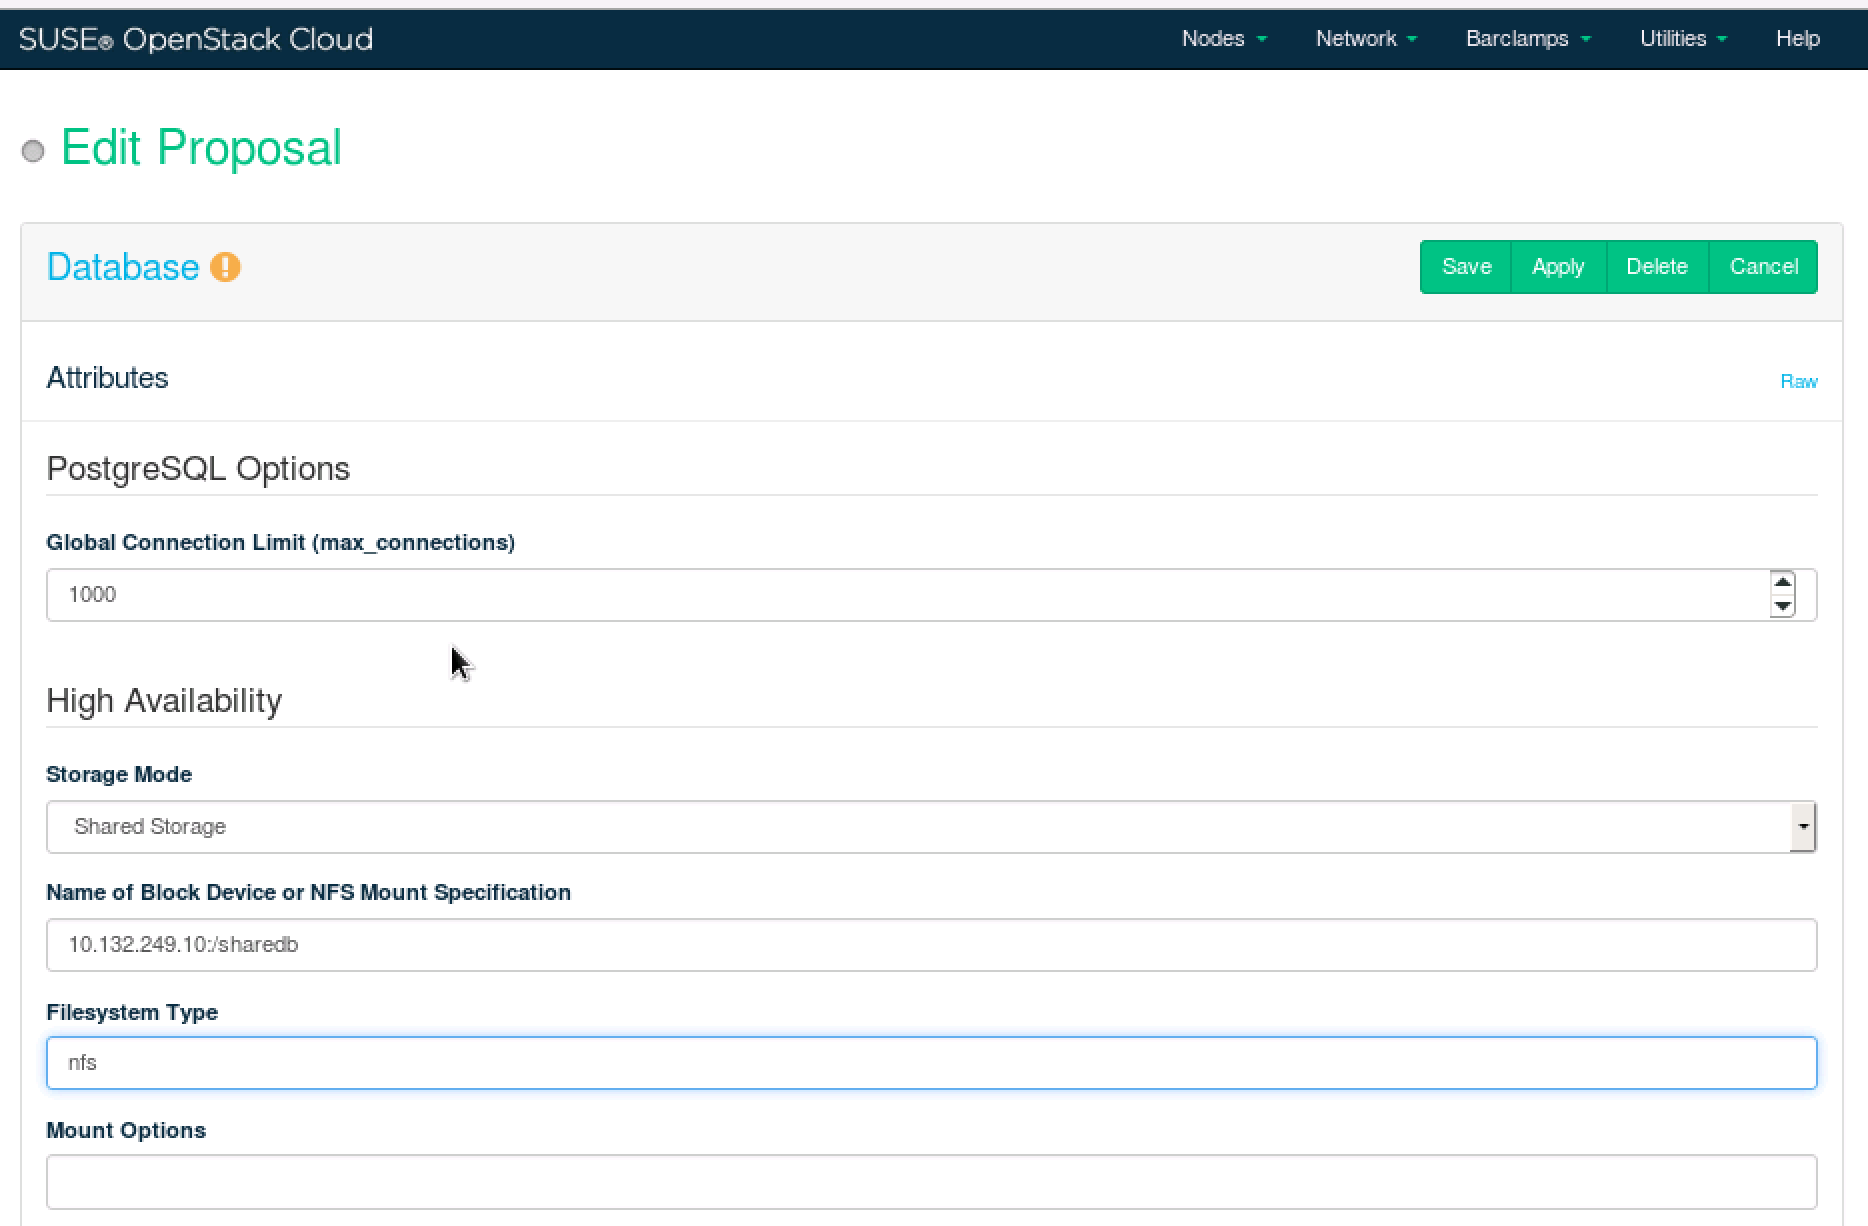
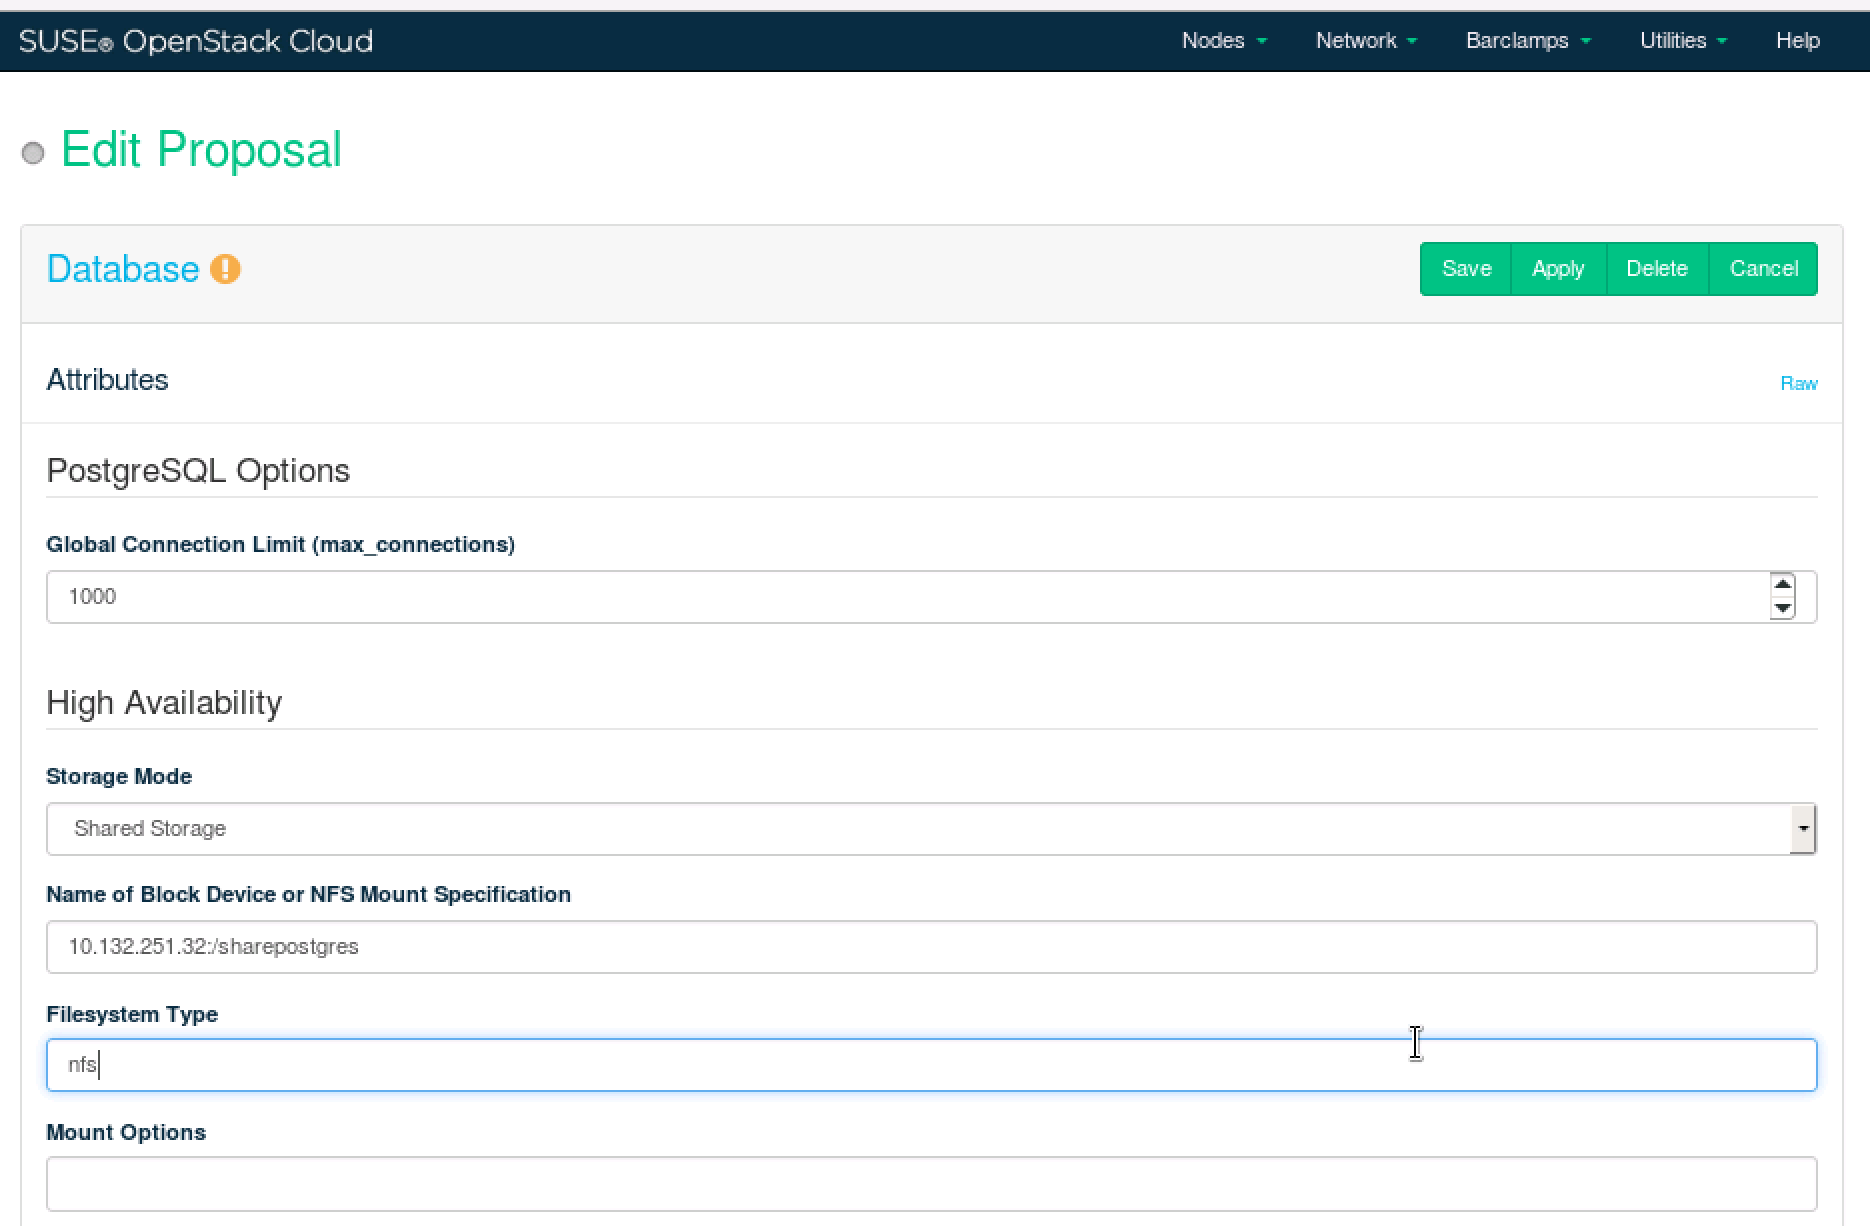
update openstack

diff --git a/openstack/openstack.md b/openstack/openstack.md
@@ -1,3 +1,4 @@
+# OS configuration
 * disable firewall
 ```bash
 systemctl stop SuSEfirewall2
@@ -23,6 +24,7 @@ umount /mnt
     * gateway
     * dns
 
+# crowbar initial
 * crowbar settings
 ![pic1](/openstack/1.png)
 
@@ -67,6 +69,7 @@ default username and password is `crowbar` and `crowbar`
 
 ![inst4](/openstack/inst4.png)
 
+# Prepare to setup openstack
 * add all package to repo on crowbar admin node
 
 * set ipmi
@@ -86,10 +89,7 @@ systemctl enable nfsserver
 /sharerabbitmq 10.132.128.0/255.255.128.0(rw,async,no_root_squash,no_subtree_check)
 ```
 
-
 * PXE Openstack Nodes
-
-
 
 * Convert Existed SUSE Linux to Openstack Node
   * update SLES12-SP2-Pool repo
@@ -109,17 +109,24 @@ chmod a+x crowbar_register
 ![open2](/openstack/open2.png)
 ![open3](/openstack/open3.png)
   * enable openstack components - Database
-    * create nfs for database failover (on crowbar admin server, the config file will be recover soon, so save it and exportfs)
-```bash
-mkdir /sharedb
-chmod 777 /sharedb
-echo '/sharedb 10.132.128.0/255.255.128.0(rw,async,no_root_squash,no_subtree_check)' >> /etc/exports
-exportfs -av
-```
+    * using nfs we created before to put database. Don't using nfs on admin node, due to the config file will be replaced by chef. 
     * enable database using pgsql
 ![open4](/openstack/open4.png)
 ![open5](/openstack/open5.png)
   * enable openstack components - RabbitMQ
+    * using nfs we created before. 
+    * enable RabbitMQ
+![open6](/openstack/open6.png)
+  * enable openstack components - Keystone
+![open7](/openstack/open7.png)
+![open8](/openstack/open8.png)
+  > you could create it on [x] cluster or [] single node
+  * enable openstack components - Glance
+![open9](/openstack/open9.png)
+![open10](/openstack/open10.png)
+![open11](/openstack/open11.png)
+![open12](/openstack/open12.png)
+
  
 
 
